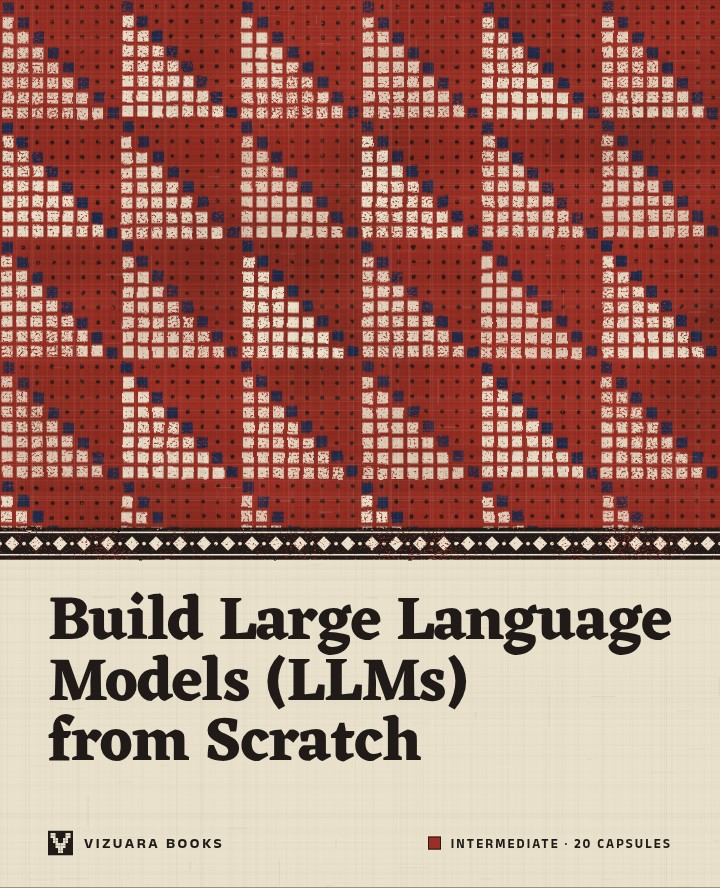
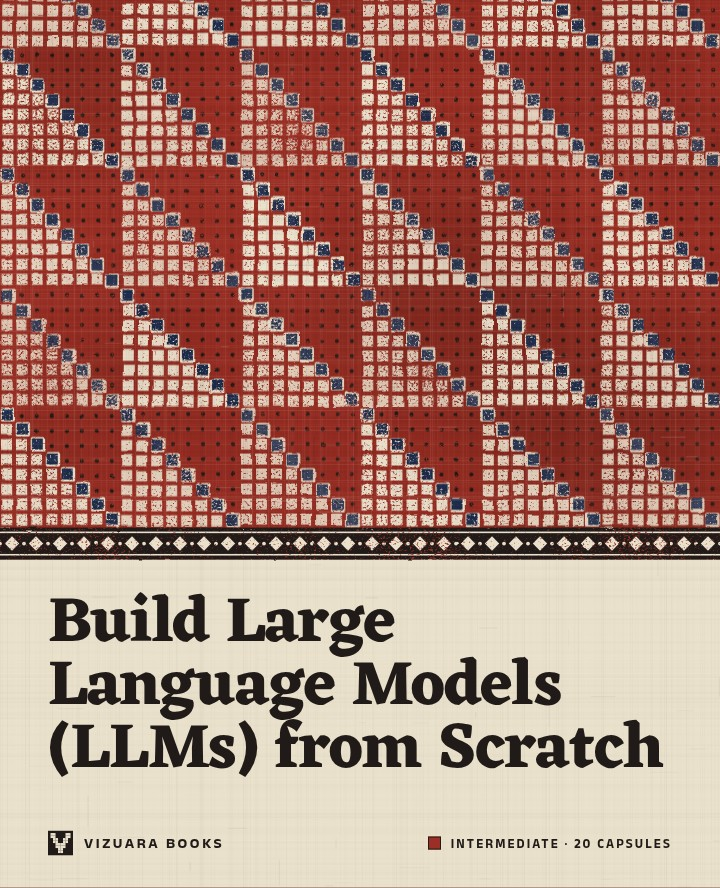
Add direction 23 (Blazon heraldic covers)
Claude-Session: https://claude.ai/code/session_01GjEZZqx8kLqLuCvwpEUbmN

diff --git a/covers/23-wildcard3/index.html b/covers/23-wildcard3/index.html
@@ -62,8 +62,8 @@
     font-size: 10.5px; font-weight: 600; letter-spacing: .2em; text-transform: uppercase; line-height: 1;
     color: var(--label); margin: 0 0 8px; font-variation-settings: 'opsz' 10;
   }
-  .cover .blazon { margin: 0 0 22px; font-style: italic; font-size: 16px; line-height: 1.3; font-weight: 400; }
-  .cover .symb { margin: 0; font-size: 13.5px; line-height: 1.4; font-weight: 400; }
+  .cover .blazon { text-wrap: pretty; margin: 0 0 22px; font-style: italic; font-size: 16px; line-height: 1.3; font-weight: 400; }
+  .cover .symb { text-wrap: pretty; margin: 0; font-size: 13.5px; line-height: 1.4; font-weight: 400; }
   .cover .meta { margin-top: auto; border-top: 2px solid currentColor; padding-top: 10px; }
   .cover .meta .lvl { font-size: 12.5px; font-weight: 700; letter-spacing: .2em; text-transform: uppercase; line-height: 1.2; font-variation-settings: 'opsz' 12; }
   .cover .meta .ext { font-size: 14px; line-height: 1.3; margin-top: 3px; font-variant-numeric: lining-nums; }
@@ -120,8 +120,8 @@
   /* back cover and spine of the wrap */
   .back .bk { position: absolute; left: 44px; top: 112px; width: 580px; }
   .bk-lab { font-size: 11px; font-weight: 600; letter-spacing: .2em; text-transform: uppercase; margin: 0 0 12px; font-variation-settings: 'opsz' 10; }
-  .bk-blazon { font-style: italic; font-size: 38px; line-height: 1.12; margin: 0 0 20px; font-variation-settings: 'opsz' 48; }
-  .bk-sym, .bk-body { font-size: 18.5px; line-height: 1.45; margin: 0 0 12px; }
+  .bk-blazon { font-style: italic; font-size: 38px; line-height: 1.12; margin: 0 0 20px; font-variation-settings: 'opsz' 48; text-wrap: balance; max-width: 520px; }
+  .bk-sym, .bk-body { font-size: 18.5px; line-height: 1.45; margin: 0 0 12px; text-wrap: pretty; }
   .bk-facts { font-size: 15px; letter-spacing: .02em; margin: 14px 0 0; font-weight: 600; }
   .bk-roll { position: absolute; left: 44px; right: 44px; bottom: 96px; }
   .bk-shields { display: flex; gap: 12px; flex-wrap: wrap; }

diff --git a/covers/23-wildcard3/src/page.html b/covers/23-wildcard3/src/page.html
@@ -62,8 +62,8 @@
     font-size: 10.5px; font-weight: 600; letter-spacing: .2em; text-transform: uppercase; line-height: 1;
     color: var(--label); margin: 0 0 8px; font-variation-settings: 'opsz' 10;
   }
-  .cover .blazon { margin: 0 0 22px; font-style: italic; font-size: 16px; line-height: 1.3; font-weight: 400; }
-  .cover .symb { margin: 0; font-size: 13.5px; line-height: 1.4; font-weight: 400; }
+  .cover .blazon { text-wrap: pretty; margin: 0 0 22px; font-style: italic; font-size: 16px; line-height: 1.3; font-weight: 400; }
+  .cover .symb { text-wrap: pretty; margin: 0; font-size: 13.5px; line-height: 1.4; font-weight: 400; }
   .cover .meta { margin-top: auto; border-top: 2px solid currentColor; padding-top: 10px; }
   .cover .meta .lvl { font-size: 12.5px; font-weight: 700; letter-spacing: .2em; text-transform: uppercase; line-height: 1.2; font-variation-settings: 'opsz' 12; }
   .cover .meta .ext { font-size: 14px; line-height: 1.3; margin-top: 3px; font-variant-numeric: lining-nums; }
@@ -120,8 +120,8 @@
   /* back cover and spine of the wrap */
   .back .bk { position: absolute; left: 44px; top: 112px; width: 580px; }
   .bk-lab { font-size: 11px; font-weight: 600; letter-spacing: .2em; text-transform: uppercase; margin: 0 0 12px; font-variation-settings: 'opsz' 10; }
-  .bk-blazon { font-style: italic; font-size: 38px; line-height: 1.12; margin: 0 0 20px; font-variation-settings: 'opsz' 48; }
-  .bk-sym, .bk-body { font-size: 18.5px; line-height: 1.45; margin: 0 0 12px; }
+  .bk-blazon { font-style: italic; font-size: 38px; line-height: 1.12; margin: 0 0 20px; font-variation-settings: 'opsz' 48; text-wrap: balance; max-width: 520px; }
+  .bk-sym, .bk-body { font-size: 18.5px; line-height: 1.45; margin: 0 0 12px; text-wrap: pretty; }
   .bk-facts { font-size: 15px; letter-spacing: .02em; margin: 14px 0 0; font-weight: 600; }
   .bk-roll { position: absolute; left: 44px; right: 44px; bottom: 96px; }
   .bk-shields { display: flex; gap: 12px; flex-wrap: wrap; }

diff --git a/covers/15-jantar/src/engine.js b/covers/15-jantar/src/engine.js
@@ -275,7 +275,7 @@
       }
       return false;
     };
-    const out = []; const sw = opts.seam == null ? 0.42 : opts.seam, ssw = opts.shadowSeam || 0.7;
+    const out = [], cuts = []; const sw = opts.seam == null ? 0.42 : opts.seam, ssw = opts.shadowSeam || 0.7;
     for (const f of order) {
       const k = dot(f.n, L);
       let lit = k > 1e-6 && !(f.mat.flat && !f.mat.sh);
@@ -287,6 +287,7 @@
         if (pts.every(p => inShadow(p, f.sid))) lit = false;
       }
       const col = tone(f.mat, f.n, L, lit);
+      if (f.mat.cut) cuts.push(P2);
       out.push(`<path d="${pathD(P2)}" fill="${col}" stroke="${col}" stroke-width="${sw}" stroke-linejoin="round"/>`);
       if (lit && f.recv !== false) {
       const d0 = dot(f.n, f.pts[0]); const shCol = tone(f.mat, f.n, L, false);
@@ -314,6 +315,13 @@
         }
         if (segs.length) out.push(`<path d="${segs.join('')}" stroke="${f.mat.courseCol || '#3a0d05'}" stroke-opacity="${f.mat.courseOp || 0.16}" stroke-width="${f.mat.courseW || 0.7}" fill="none"/>`);
       }
+    }
+    // section cut line: faces on the cutting plane are nearest the viewer, so they can be redrawn
+    // last — first as a marble halo (half of it shows outside the poché), then as poché on top.
+    if (cuts.length && opts.cutLine) {
+      const d = cuts.map(pathD).join(''), w = (opts.cutW || 2.5) * 2, fill = opts.cutFill;
+      out.push(`<path d="${d}" fill="${opts.cutLine}" stroke="${opts.cutLine}" stroke-width="${w}" stroke-linejoin="miter"/>`);
+      out.push(`<path d="${d}" fill="${fill}" stroke="${fill}" stroke-width="${sw}" stroke-linejoin="round"/>`);
     }
     return out.join('');
   }
